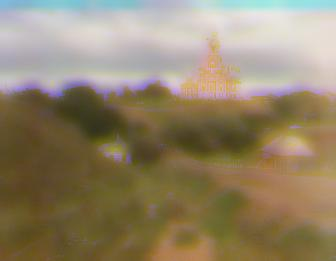
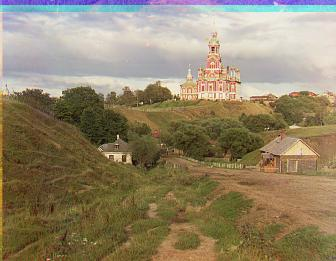
website

diff --git a/1/index.html b/1/index.html
@@ -54,31 +54,87 @@
     <h3>Alignment by RGB</h3>
     <p>To align the image channels by RGB similarity, I exhaustively search over a window of possible displacements, score each displacement using an image matching metric, and select the displacement with the best score.</p>
     <p><strong>Why Euclidean Distance?</strong> I implemented both Euclidean Distance and Normalized Cross-Correlation. The results indicate that Euclidean Distance performs better in this context.</p>
-    
+    <div class = "image-container">
+      <img src = "media/data/monastery.jpg" alt="Original">
+      <img src = "media/img_aligned/" alt="Colored">
+    </div>
+    <div class = "image-container">
+      <img src = "media/data/tobolsk.jpg" alt="Original">
+      <img src = "media/img_aligned/tobolsk.jpg" alt="Colored">
+    </div>
+
+
     <h3>Pyramid Speedup</h3>
     <p>An image pyramid represents the image at multiple scales, typically scaled by a factor of 2. Processing is performed sequentially, starting from the coarsest scale and moving to finer scales, updating the estimate at each level. I used a recursive call to my original single-scale implementation. However, larger levels result in increased blur and information loss, so I opted for a smaller pyramid level.</p>
+    <div class = "image-container">
+      <img src = "media/data/three_generations.jpg" alt="Original">
+      <img src = "media/img_aligned/three_generations.jpg" alt="Colored">
+    </div>
+    <div class = "image-container">
+      <img src = "media/data/train.jpg" alt="Original">
+      <img src = "media/img_aligned/train.jpg" alt="Colored">
+    </div>
+
     
     <h2>Extras</h2>
     
     <h3>Automatic Cropping by Dynamic Margin</h3>
     <p><strong>Why Not Variance?</strong> Initially, I calculated the variance of each row and column to crop borders of white, black, or other colors. However, this method did not yield satisfactory results, as a single threshold was not applicable to all images.</p>
     <p><strong>Why Dynamic Margin?</strong> Given that the images are of similar size (taken with the same photographic equipment), I chose to use two margin factors and crop the borders dynamically.</p>
-    
+    <div class = "image-container">
+      <img src = "media/img_aligned/harvesters.jpg" alt="Original">
+      <img src = "media/img_cropped/harvesters.jpg" alt="Colored">
+    </div>
+    <div class = "image-container">
+      <img src = "media/img_aligned/lady.jpg" alt="Original">
+      <img src = "media/img_cropped/lady.jpg" alt="Colored">
+    </div>
+
     <h3>Automatic Contrast Adjustment</h3>
     <p>The darkest pixel is treated as zero, and the brightest pixel as one. I then linearly map the image, resulting in visually pleasing results.</p>
-    
+    <div class = "image-container">
+      <img src = "media/img_cropped/onion_church.jpg" alt="Original">
+      <img src = "media/img_contrasted/onion_church.jpg" alt="Colored">
+    </div>
+    <div class = "image-container">
+      <img src = "media/img_cropped/icon.jpg" alt="Original">
+      <img src = "media/img_contrasted/icon.jpg" alt="Colored">
+    </div>
+
+
     <h3>Automatic White Balance</h3>
     <p>White balance involves adjusting the average color in each channel to grey, and the average color in the whole image to neutral grey. However, since the images are light-balanced, adjusting the average color to grey resulted in a greyer overall image.</p>
     <p><strong>I Did Not Apply White Balance</strong></p>
+    <div class = "image-container">
+      <img src = "media/img_contrasted/church.jpg" alt="Original">
+      <img src = "media/img_whitebalanced/church.jpg" alt="Colored">
+    </div>
     
     <h3>Green Base</h3>
     <p><strong>Why Blue Base?</strong> Given the blurriness of the images, I explored other methods to enhance image quality. I came across the awarded homework by <strong>Saurav Mittal</strong>, which suggested "Base Channel Selection." Based on this, I initially chose green as the base channel.</p>
     <p><strong>Why Green?</strong> Saurav Mittal explained that "green provided consistently good results for all images". However, I sought a more comprehensive explanation and found a biochemical rationale: "When fully light-adapted, the human eye features a wavelength response from around 400 to 700 nanometers, with a peak sensitivity at 555 nanometers (in the green region of the visible light spectrum)...... Light scattering and absorption by elements in the crystalline lens contributes to a further loss of sensitivity in the far blue."</p>
     <p>This explains why green is chosen as the base channel.</p>
+    <div class = "image-container">
+      <img src = "media/img_contrasted/emir.jpg" alt="Original">
+      <img src = "media/img_green/emir.jpg" alt="Colored">
+    </div>
+    <div class = "image-container">
+      <img src = "media/img_contrasted/self_portrait.jpg" alt="Original">
+      <img src = "media/img_green/self_portrait.jpg" alt="Colored">
+    </div>
+    <div class = "image-container">
+      <img src = "media/img_contrasted/melons.jpg" alt="Original">
+      <img src = "media/img_green/melons.jpg" alt="Colored">
+    </div>
     
     <h3>Alignment by Gradient</h3>
     <p><strong>Why RGB-Based Alignment?</strong> Some dazzling strips remain, which suggests that the alignment method may be at fault. RGB-based alignment is sensitive to both color and light. Given that the project website offers gradient-based and edge-based methods, I chose the gradient-based method due to familiarity with the relevant mathematics.</p>
-    
+    <div class = "image-container">
+      <img src = "media/img_green/sculpture.jpg" alt="Original">
+      <img src = "media/img_gradient/sculpture.jpg" alt="Colored">
+    </div>
+
+
     <h2>Appendix</h2>
     <table border="1">
       <tr>
